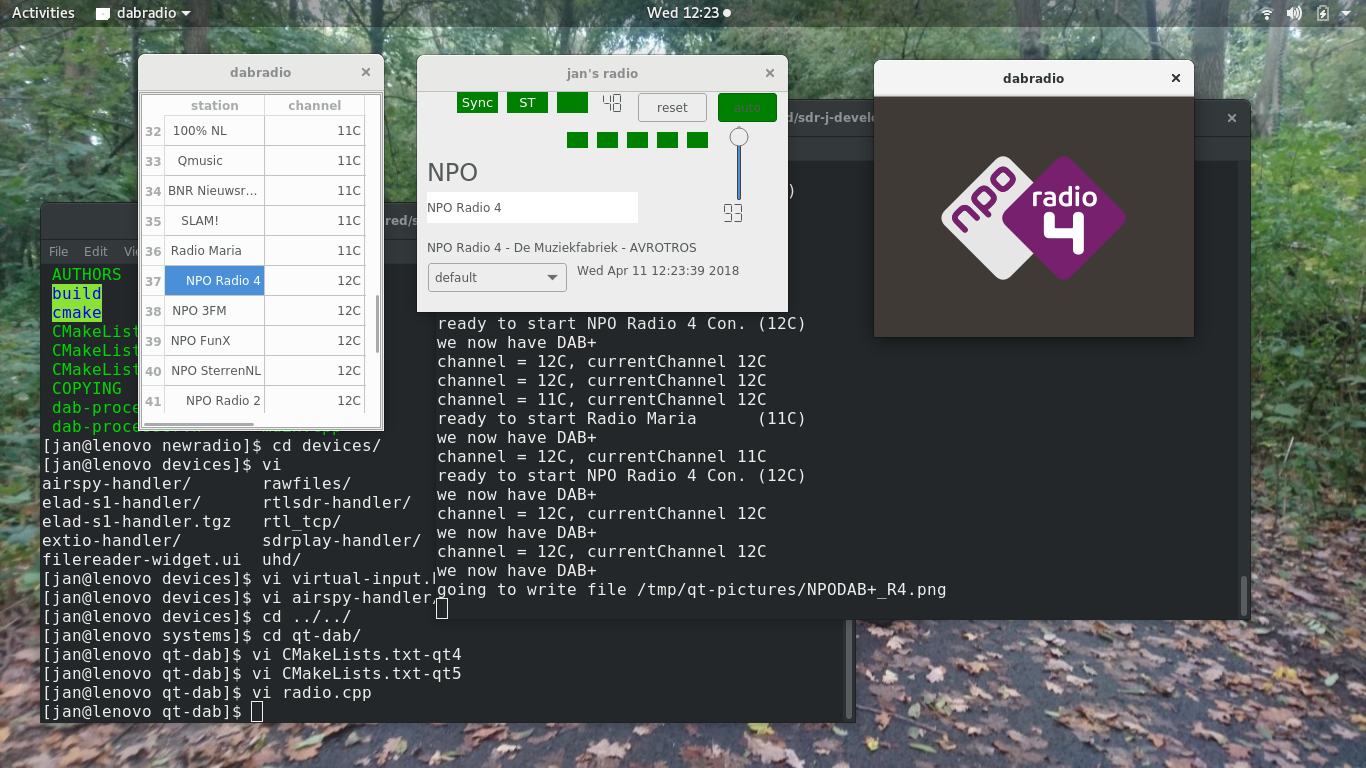
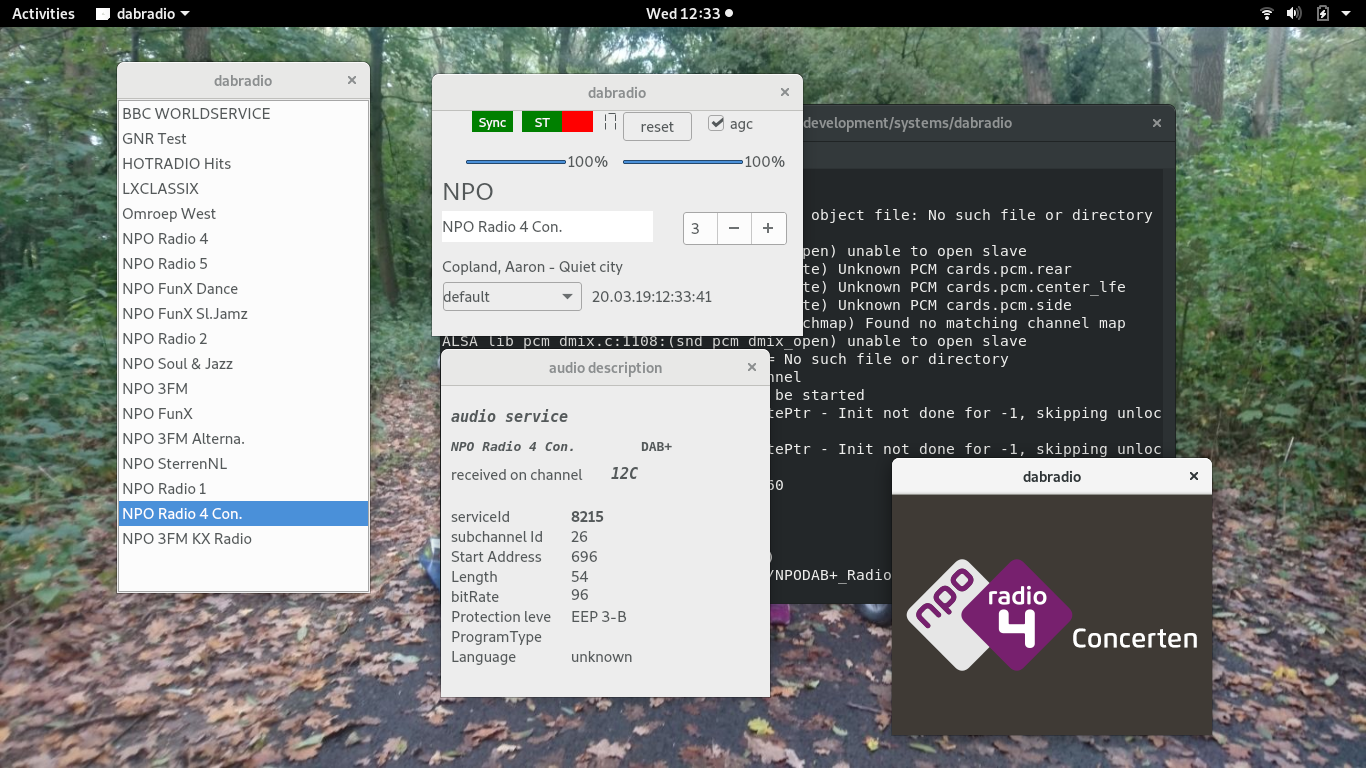
tadded a progressbar for audio decoding

diff --git a/radio.cpp b/radio.cpp
@@ -109,19 +109,12 @@ QString h;
 
 	syncedLabel		->
 	               setStyleSheet ("QLabel {background-color : red}");
-	strength_0_label	->
-	               setStyleSheet ("QLabel {background-color : red}");
-	strength_1_label	->
-	               setStyleSheet ("QLabel {background-color : red}");
-	strength_2_label	->
-	               setStyleSheet ("QLabel {background-color : red}");
-	strength_3_label	->
-	               setStyleSheet ("QLabel {background-color : red}");
-	strength_4_label	->
-	               setStyleSheet ("QLabel {background-color : red}");
 //
 	motLabel		->
 	               setStyleSheet ("QLabel {background-color : red}");
+
+	audioQuality		-> setValue (0);
+	ficQuality		-> setValue (0);
 
 //	display the version
 	QString v = "j-radio -" + QString (CURRENT_VERSION);
@@ -364,51 +357,7 @@ void	RadioInterface::show_ficSuccess (bool b) {
 	if (b)
 	   ficSuccess ++;
 	if (++ficBlocks >= 100) {
-	   switch ((ficSuccess + 10) / 20) {
-	      default:			// should not happen
-	      case 0:	// 5 red blocks
-	         setColor (strength_0_label, 0);
-	         setColor (strength_1_label, 0);
-	         setColor (strength_2_label, 0);
-	         setColor (strength_3_label, 0);
-	         setColor (strength_4_label, 0);
-	         break;
-	      case 1:	// 1 green, four red
-	         setColor (strength_0_label, 1);
-	         setColor (strength_1_label, 0);
-	         setColor (strength_2_label, 0);
-	         setColor (strength_3_label, 0);
-	         setColor (strength_4_label, 0);
-	         break;
-	      case 2:	// 2 green, three red
-	         setColor (strength_0_label, 1);
-	         setColor (strength_1_label, 1);
-	         setColor (strength_2_label, 0);
-	         setColor (strength_3_label, 0);
-	         setColor (strength_4_label, 0);
-	         break;
-	      case 3:	// 3 green, two red
-	         setColor (strength_0_label, 1);
-	         setColor (strength_1_label, 1);
-	         setColor (strength_2_label, 1);
-	         setColor (strength_3_label, 0);
-	         setColor (strength_4_label, 0);
-	         break;
-	      case 4:	// 4 green, one red
-	         setColor (strength_0_label, 1);
-	         setColor (strength_1_label, 1);
-	         setColor (strength_2_label, 1);
-	         setColor (strength_3_label, 1);
-	         setColor (strength_4_label, 0);
-	         break;
-	      case 5:	// 5 green
-	         setColor (strength_0_label, 1);
-	         setColor (strength_1_label, 1);
-	         setColor (strength_2_label, 1);
-	         setColor (strength_3_label, 1);
-	         setColor (strength_4_label, 1);
-	         break;
-	   }
+	   ficQuality -> setValue (ficSuccess);
 	   ficSuccess	= 0;
 	   ficBlocks	= 0;
 	}
@@ -452,16 +401,8 @@ void	RadioInterface::set_CorrectorDisplay	(int c) {
 	(void)c;
 }
 
-void	RadioInterface::show_frameErrors	(int e) {
-	emit set_quality (e);
-}
-
-void	RadioInterface::show_rsErrors		(int e) {
-	(void)e;
-}
-
-void	RadioInterface::show_aacErrors		(int e) {
-	(void)e;
+void	RadioInterface::show_audioQuality	(int e) {
+	audioQuality -> setValue (e);
 }
 
 ///	just switch a color, obviously GUI dependent, but called

diff --git a/src/backend/audio/mp4processor.cpp b/src/backend/audio/mp4processor.cpp
@@ -47,12 +47,8 @@
 	                             aacDecoder (mr, b) {
 
 	myRadioInterface	= mr;
-	connect (this, SIGNAL (show_frameErrors (int)),
-	         mr, SLOT (show_frameErrors (int)));
-	connect (this, SIGNAL (show_rsErrors (int)),
-	         mr, SLOT (show_rsErrors (int)));
-	connect (this, SIGNAL (show_aacErrors (int)),
-	         mr, SLOT (show_aacErrors (int)));
+	connect (this, SIGNAL (show_audioQuality (int)),
+	         mr, SLOT (show_audioQuality (int)));
 	connect (this, SIGNAL (isStereo (bool)),
 	         mr, SLOT (setStereo (bool)));
 	this	-> bitRate	= bitRate;	// input rate
@@ -106,10 +102,11 @@ int16_t	nbits	= 24 * bitRate;
   */
 	if (blocksInBuffer >= 5) {
 ///	first, we show the "successrate"
-	   if (++frameCount >= 100) {
+	   if (++frameCount >= 20) {
 	      frameCount = 0;
-	      show_frameErrors (100 - frameErrors);
-	      frameErrors = 0;
+	      int audioQuality	= (100 - 5 * frameErrors - aacErrors - rsErrors);
+	      show_audioQuality (audioQuality);
+	      frameErrors = aacErrors = rsErrors = 0;
 	   }
 
 /**
@@ -123,11 +120,6 @@ int16_t	nbits	= 24 * bitRate;
 //	since we processed a full cycle of 5 blocks, we just start a
 //	new sequence, beginning with block blockFillIndex
 	      blocksInBuffer	= 0;
-	      if (++successFrames > 25) {
-	         show_rsErrors (rsErrors);
-	         successFrames	= 0;
-	         rsErrors	= 0;
-	      }
 	   }
 	   else {
 /**
@@ -287,11 +279,6 @@ int32_t		tmp;
 //	                                   &err);
 	      if (err) 
 	         aacErrors ++;
-	      if (++aacFrames > 25) {
-	         show_aacErrors (aacErrors);
-	         aacErrors	= 0;
-	         aacFrames	= 0;
-	      }
 	   }
 	   else {
 	      fprintf (stderr, "CRC failure with dab+ frame %d (%d)\n",

diff --git a/src/backend/audio/mp2processor.cpp b/src/backend/audio/mp2processor.cpp
@@ -242,8 +242,8 @@ int16_t *nPtr = &N [0][0];
 	myRadioInterface	= mr;
 	this	-> buffer	= buffer;
 	this	-> bitRate	= bitRate;
-	connect (this, SIGNAL (show_frameErrors (int)),
-	         mr, SLOT (show_frameErrors (int)));
+	connect (this, SIGNAL (show_audioQuality (int)),
+	         mr, SLOT (show_audioQualitys (int)));
 	connect (this, SIGNAL (newAudio (int, int)),
 	         mr, SLOT (newAudio (int, int)));
 	connect (this, SIGNAL (isStereo (bool)),
@@ -381,7 +381,7 @@ int32_t table_idx;
 
 	numberofFrames ++;
 	if (numberofFrames >= 100) {
-	   show_frameErrors (100 - errorFrames);
+	   show_audioQuality (100 - errorFrames);
 	   numberofFrames	= 0;
 	   errorFrames		= 0;
 	}

diff --git a/radio.h b/radio.h
@@ -149,9 +149,7 @@ public slots:
 	void		showImpulse		(int);
 	void		showSpectrum		(int);
 	void		showIQ			(int);
-	void		show_frameErrors	(int);
-	void		show_rsErrors		(int);
-	void		show_aacErrors		(int);
+	void		show_audioQuality	(int);
 	void		showQuality		(float);
 	void		show_snr		(int);
 //	Somehow, these must be connected to the GUI

diff --git a/includes/backend/audio/mp4processor.h b/includes/backend/audio/mp4processor.h
@@ -87,9 +87,7 @@ private:
 	int16_t		aacFrames;
 	int16_t		charSet;
 signals:
-	void		show_frameErrors		(int);
-	void		show_rsErrors			(int);
-	void		show_aacErrors			(int);
+	void		show_audioQuality		(int);
 	void		isStereo			(bool);
 };
 

diff --git a/devices/hackrf-handler/hackrf-handler.h b/devices/hackrf-handler/hackrf-handler.h
@@ -31,7 +31,6 @@
 #include	"dab-constants.h"
 #include	"ringbuffer.h"
 #include	"device-handler.h"
-#include	"ui_hackrf-widget.h"
 #include	"libhackrf/hackrf.h"
 
 typedef int (*hackrf_samble_block_bc_fn)(hackrf_transfer *transfer);

diff --git a/includes/backend/audio/mp2processor.h b/includes/backend/audio/mp2processor.h
@@ -94,7 +94,7 @@ private:
 	int16_t		numberofFrames;
 	int16_t		errorFrames;
 signals:
-	void		show_frameErrors	(int);
+	void		show_audioQuality	(int);
 	void		newAudio		(int, int);
 	void		isStereo		(bool);
 };

diff --git a/README.md b/README.md
@@ -33,7 +33,7 @@ Introduction
 
 **dabradio** and Qt-DAB share a lot of functionality, obviously. Nevertheless
 to avoid even more "ifdef"s in the code, it was decided to
-maintain a GitHub repository for both of them.
+maintain separate GitHub repositories for each of them.
 
 A feature specific to this implementation is that,
 rather than selecting a channel, the software maintains a list of
@@ -45,7 +45,9 @@ all channels in the given band are listened to to see whether or not
 a DAB signal can be detected. If so, the channel is recorded.
 
 The GUI does *not* provide buttons to select the Mode or the Band. Defaults are Mode 1 and the VHF Band III. In the ".ini" file
-(a file .dabradio.ini in the home directory of the user) the Mode can be set as well as the band.
+(a file .dabradio.ini in the home directory of the user) the Mode can be set as well as the band (Since the DAB standard in 2016 simplified DAB (a.o) by
+just supporting Mode 1 in VHF Band III, a future version will omit the
+possibility of choosing band and/or mode).
 
 The services are presented in a separate widget, for each service the
 widget contains some additional information.
@@ -63,7 +65,7 @@ Features
   * DAB (mp2) and DAB+ (HE-AAC v1, HE-AAC v2 and LC-AAC) decoding
   * MOT SlideShow (SLS)
   * Dynamic Label (DLS) 
-  * Both DAB bands supported (default VHF Band III, can be set in the ini file):
+  * (Almost obsolete) Both DAB bands supported (default VHF Band III, can be set in the ini file):
   	* VHF Band III
    	* L-Band (only used in Czech Republic and Vatican)
   * Scanning function (scanning over all channels in a given band and collecting
@@ -76,6 +78,16 @@ all services)
 
 Data services are not visible to the user,
 although MOT as subservice is - limited - implemented.
+
+Especially with simple devices, as e.g. DABsticks, with poor antenna
+equipment, there is a chance that decoding and error correction fails,
+resulting in some hick ups in the sound output.
+
+The most recent version now shows the successrate in Fib decoding
+as well as the successrate in audio decoding. In a decent setup, i.e.
+with a reasonable antenna, the successrate in the Fib decoding should be 100.
+If the successrate in the audiodecoding is less than 100, one might expect
+some gaps in the audio output.
 
 ------------------------------------------------------------------
 Windows
@@ -219,7 +231,6 @@ CONFIG          += NO_SSE
 
 Slightly slower since no the other two use specialized instructions
 in the viterbi decoding (which is quite heavy in DAB decoding)
-
 
 Further in the ".pro" file, in the section labeled NEON, you could
 choose between compiler flags set for optimizing for the RPI2 or the RPI3
